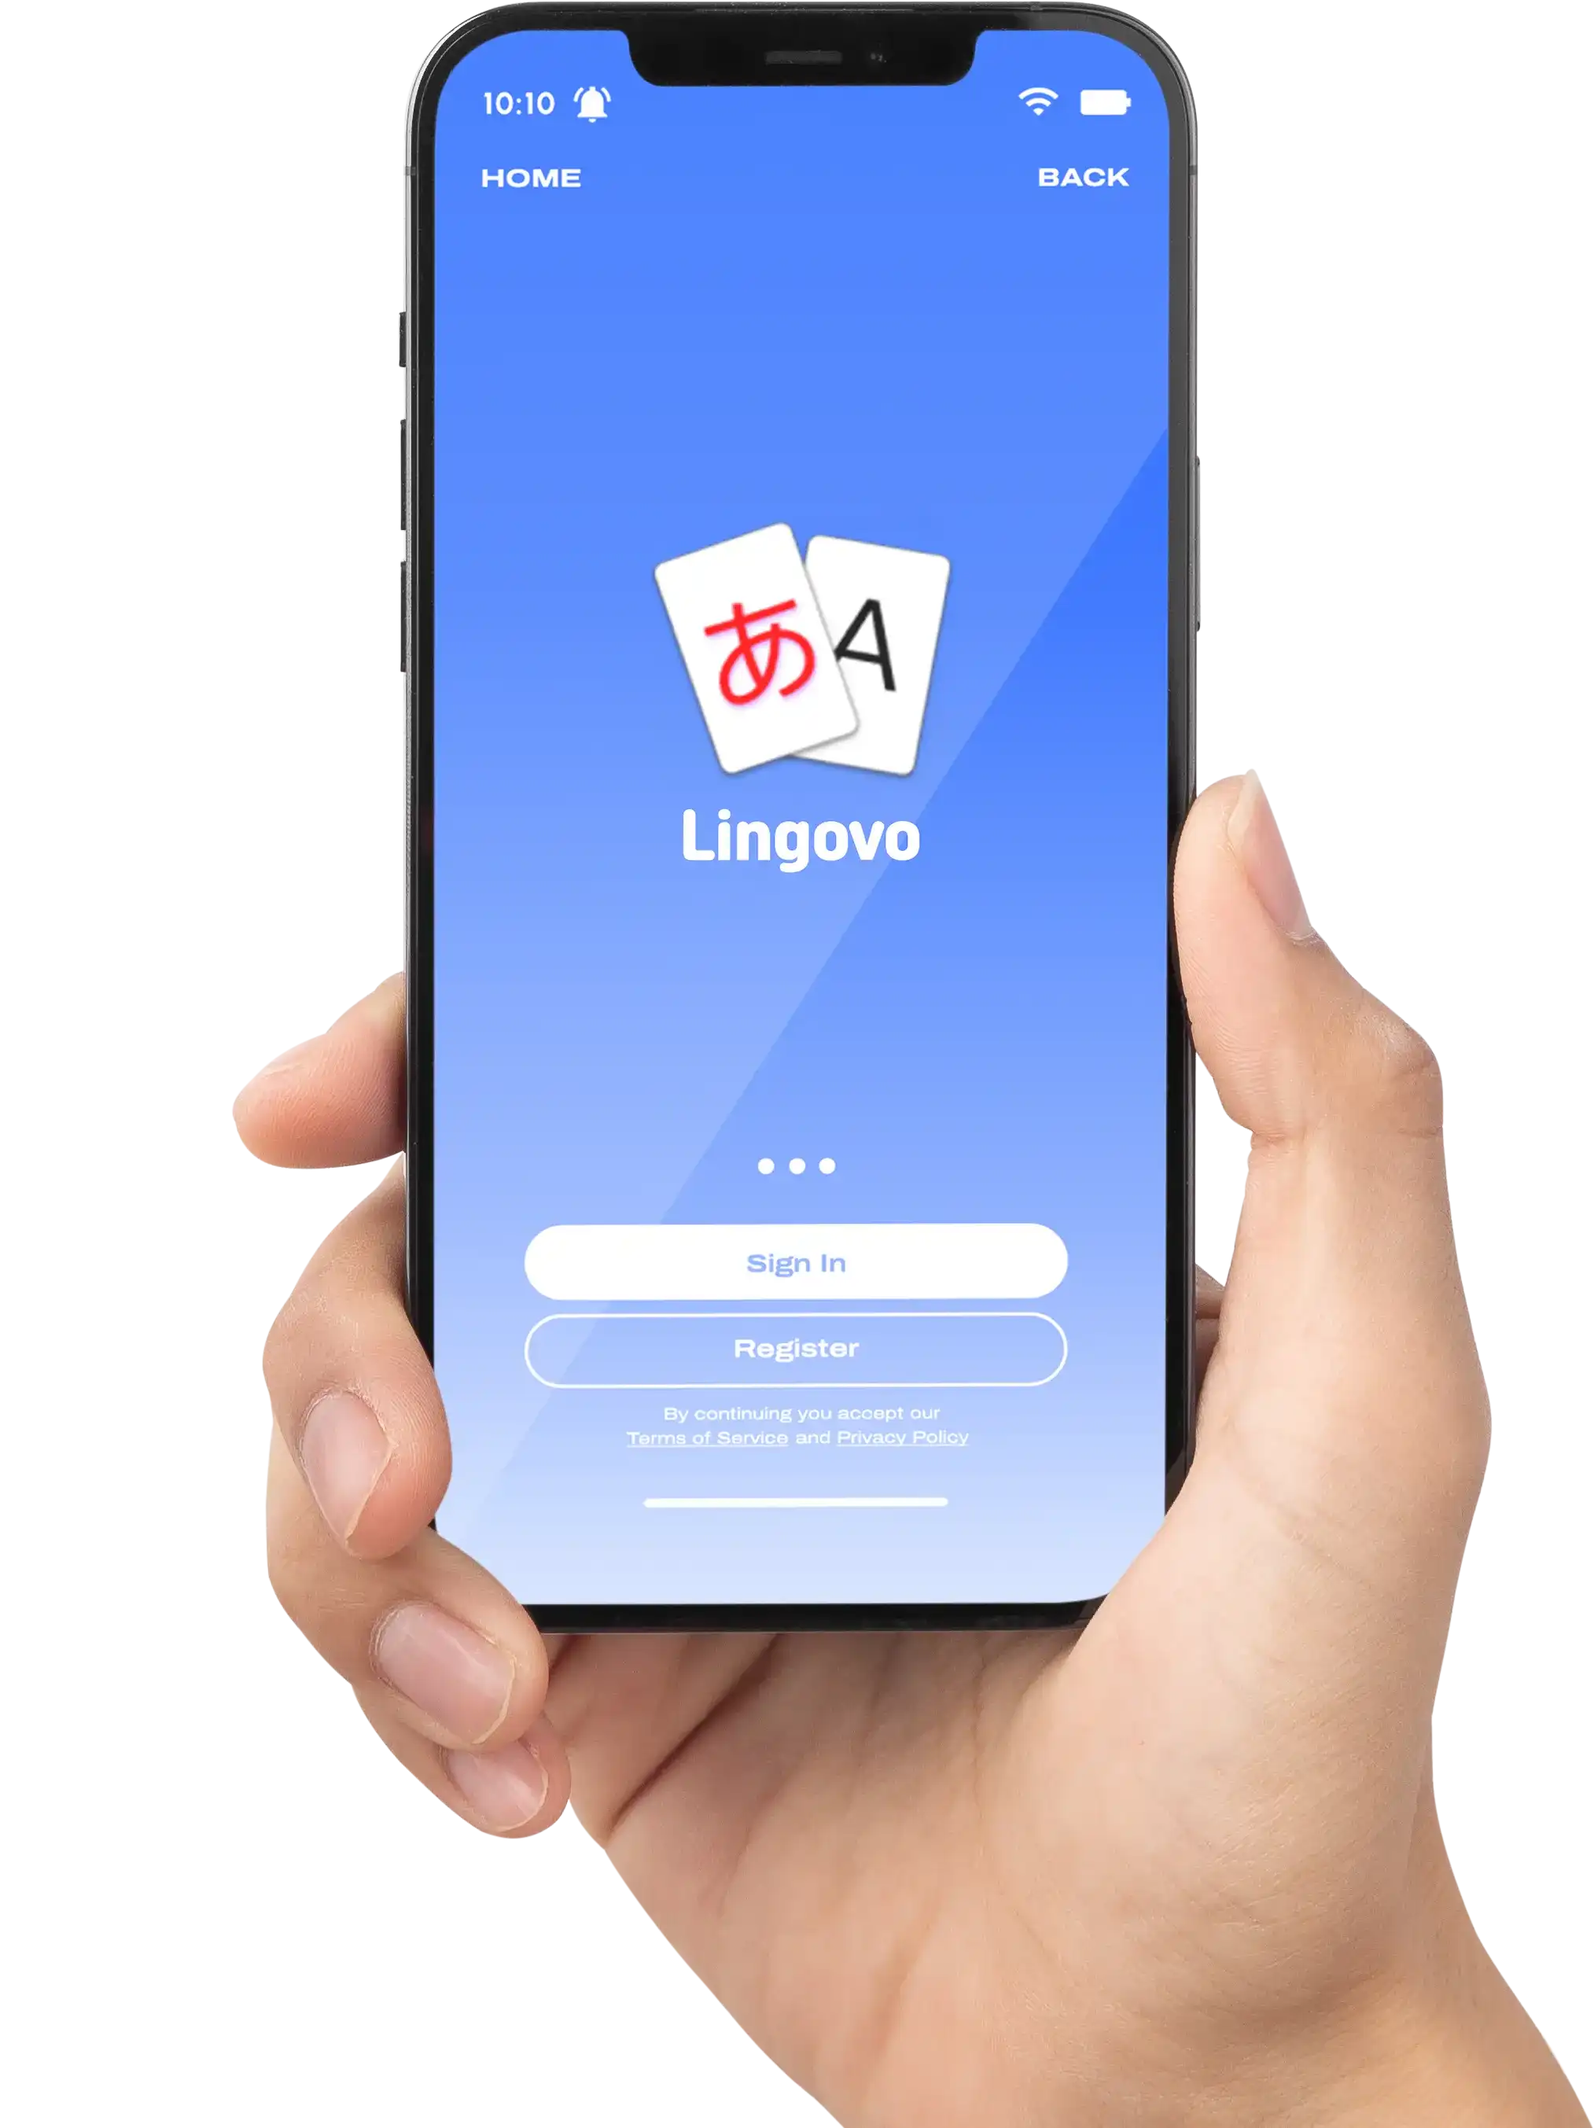
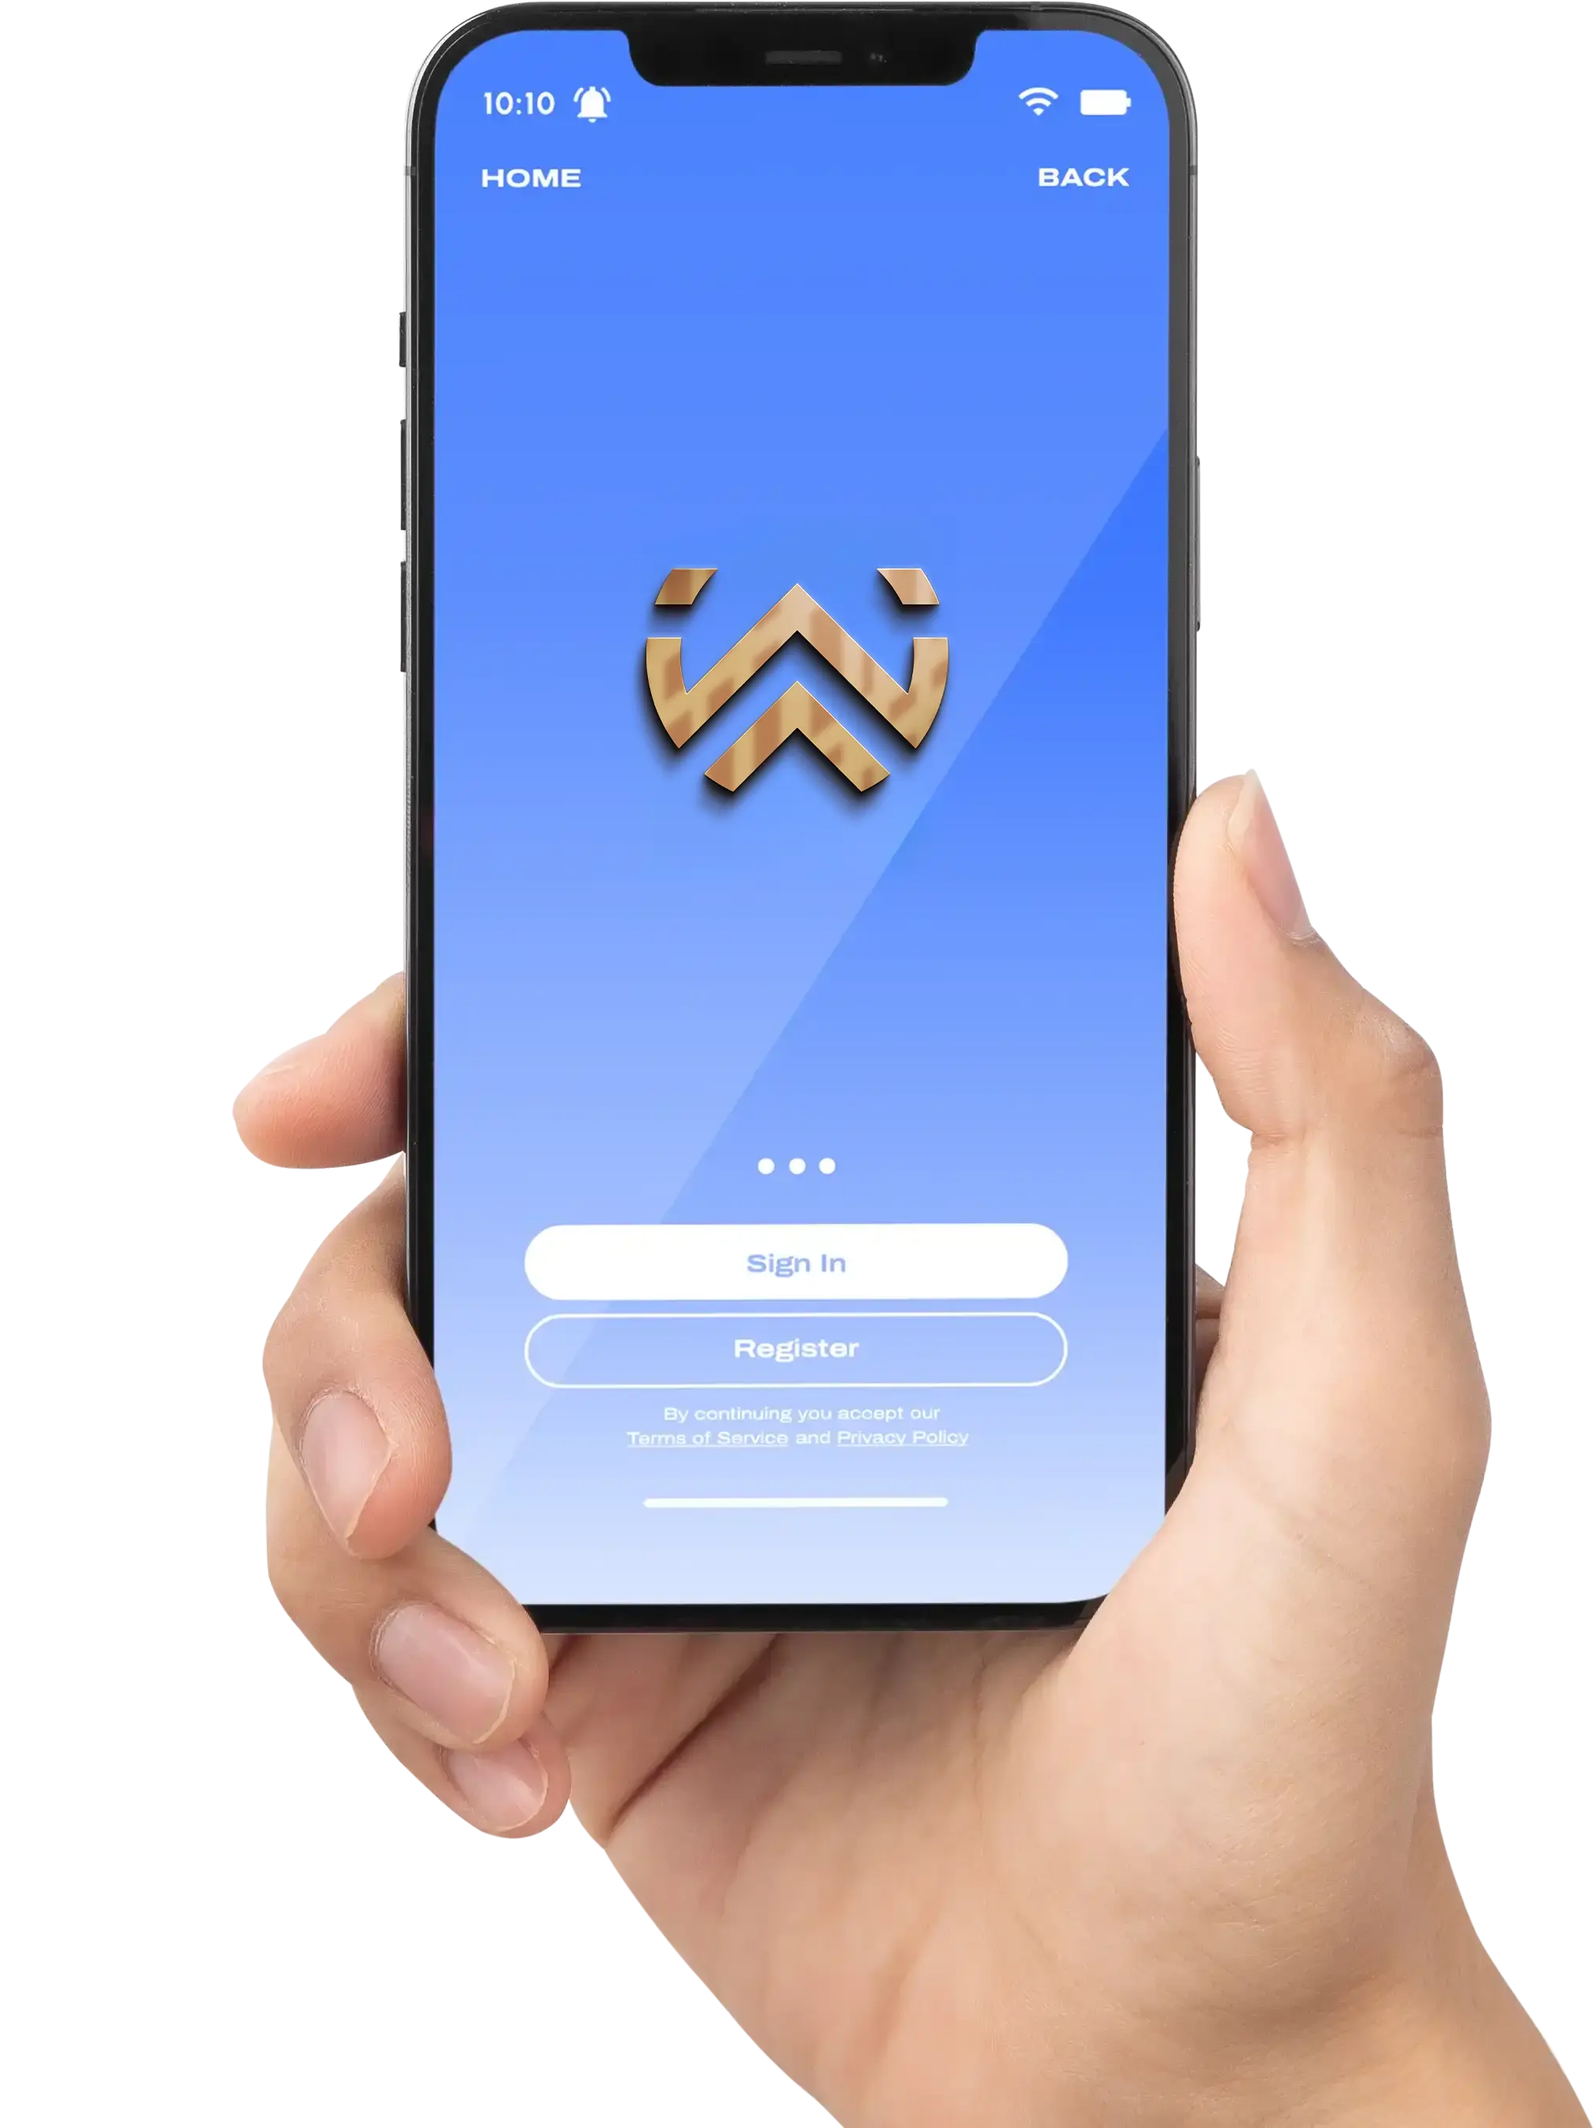
Added a sample product name and replaced asset images for demo

Changed region(s): [[0.373, 0.2483, 0.6216, 0.4035]]

diff --git a/components/testimonial-section.tsx b/components/testimonial-section.tsx
@@ -13,13 +13,13 @@ const testimonials: Testimonial[] = [
     name: 'Jonathan Yombo',
     role: 'Software Engineer',
     image: 'https://randomuser.me/api/portraits/men/1.jpg',
-    quote: 'product-name is really extraordinary and very practical, no need to break your head. A real gold mine.',
+    quote: 'Worldpro is really extraordinary and very practical, no need to break your head. A real gold mine.',
   },
   {
     name: 'Yves Kalume',
     role: 'GDE - Android',
     image: 'https://randomuser.me/api/portraits/men/6.jpg',
-    quote: 'With no experience in webdesign I just redesigned my entire website in a few minutes with tailwindcss thanks to product-name.',
+    quote: 'With no experience in webdesign I just redesigned my entire website in a few minutes with tailwindcss thanks to Worldpro.',
   },
   {
     name: 'Yucel Faruksahan',
@@ -31,19 +31,19 @@ const testimonials: Testimonial[] = [
     name: 'Anonymous author',
     role: 'Doing something',
     image: 'https://randomuser.me/api/portraits/men/8.jpg',
-    quote: 'I am really new to Tailwind and I want to give a go to make some page on my own. I searched a lot of hero pages and blocks online. However, most of them are not giving me a clear view or needed some HTML/CSS coding background to make some changes from the original or too expensive to have. I downloaded the one of product-name template which is very clear to understand at the start and you could modify the codes/blocks to fit perfectly on your purpose of the page.',
+    quote: 'I am really new to Tailwind and I want to give a go to make some page on my own. I searched a lot of hero pages and blocks online. However, most of them are not giving me a clear view or needed some HTML/CSS coding background to make some changes from the original or too expensive to have. I downloaded the one of Worldpro template which is very clear to understand at the start and you could modify the codes/blocks to fit perfectly on your purpose of the page.',
   },
   {
     name: 'Shekinah Tshiokufila',
     role: 'Senior Software Engineer',
     image: 'https://randomuser.me/api/portraits/men/4.jpg',
-    quote: 'product-name is redefining the standard of web design, with these blocks it provides an easy and efficient way for those who love beauty but may lack the time to implement it. I can only recommend this incredible wonder.',
+    quote: 'Worldpro is redefining the standard of web design, with these blocks it provides an easy and efficient way for those who love beauty but may lack the time to implement it. I can only recommend this incredible wonder.',
   },
   {
     name: 'Oketa Fred',
     role: 'Fullstack Developer',
     image: 'https://randomuser.me/api/portraits/men/2.jpg',
-    quote: 'I absolutely love product-name! The component blocks are beautifully designed and easy to use, which makes creating a great-looking website a breeze.',
+    quote: 'I absolutely love Worldpro! The component blocks are beautifully designed and easy to use, which makes creating a great-looking website a breeze.',
   },
   {
     name: 'Zeki',
@@ -55,31 +55,31 @@ const testimonials: Testimonial[] = [
     name: 'Joseph Kitheka',
     role: 'Fullstack Developer',
     image: 'https://randomuser.me/api/portraits/men/9.jpg',
-    quote: 'product-name has transformed the way I develop web applications. Their extensive collection of UI components, blocks, and templates has significantly accelerated my workflow. The flexibility to customize every aspect allows me to create unique user experiences. product-name is a game-changer for modern web development!',
+    quote: 'Worldpro has transformed the way I develop web applications. Their extensive collection of UI components, blocks, and templates has significantly accelerated my workflow. The flexibility to customize every aspect allows me to create unique user experiences. Worldpro is a game-changer for modern web development!',
   },
   {
     name: 'Khatab Wedaa',
     role: 'MerakiUI Creator',
     image: 'https://randomuser.me/api/portraits/men/10.jpg',
-    quote: "product-name is an elegant, clean, and responsive tailwind css components it's very helpful to start fast with your project.",
+    quote: "Worldpro is an elegant, clean, and responsive tailwind css components it's very helpful to start fast with your project.",
   },
   {
     name: 'Rodrigo Aguilar',
     role: 'TailwindAwesome Creator',
     image: 'https://randomuser.me/api/portraits/men/11.jpg',
-    quote: 'I love product-name ❤. The component blocks are well-structured, simple to use, and beautifully designed. It makes it really easy to have a good-looking website in no time.',
+    quote: 'I love Worldpro ❤. The component blocks are well-structured, simple to use, and beautifully designed. It makes it really easy to have a good-looking website in no time.',
   },
   {
     name: 'Eric Ampire',
     role: 'Mobile Engineer at @BRPNews • @GoogleDevExpert for Android',
     image: 'https://randomuser.me/api/portraits/men/12.jpg',
-    quote: 'product-name templates are the perfect solution for anyone who wants to create a beautiful and functional website without any web design experience. The templates are easy to use, customizable, and responsive, and the support team is always available to help. I highly recommend product-name templates to anyone who is looking to create a website.',
+    quote: 'Worldpro templates are the perfect solution for anyone who wants to create a beautiful and functional website without any web design experience. The templates are easy to use, customizable, and responsive, and the support team is always available to help. I highly recommend Worldpro templates to anyone who is looking to create a website.',
   },
   {
     name: 'Roland Tubonge',
     role: 'Software Engineer',
     image: 'https://randomuser.me/api/portraits/men/13.jpg',
-    quote: 'product-name is so well designed that even with a very poor knowledge of web design you can do miracles. Let yourself be seduced!',
+    quote: 'Worldpro is so well designed that even with a very poor knowledge of web design you can do miracles. Let yourself be seduced!',
   },
 ]
 
@@ -100,7 +100,7 @@ export function WallOfLoveSection() {
         <div className="mx-auto max-w-6xl px-6">
           <div className="mx-auto max-w-3xl text-center">
             <h2 className="text-balance text-4xl font-semibold lg:text-5xl">Loved by the Community</h2>
-            <p className="text-body mt-6">Don't just take our word for it! Hear from our happy learners about their experiences with product-name and how it's helping them master a new language.</p>
+            <p className="text-body mt-6">Don't just take our word for it! Hear from our happy learners about their experiences with Worldpro and how it's helping them master a new language.</p>
           </div>
           <div className="mt-8 grid gap-3 md:mt-12 lg:grid-cols-3">
             {testimonialChunks.map((chunk, chunkIndex) => (

diff --git a/components/faqs-section.tsx b/components/faqs-section.tsx
@@ -13,24 +13,24 @@ export function FAQSection() {
 
           <div className="divide-y divide-dashed sm:mx-auto sm:max-w-lg lg:mx-0">
             <div className="pb-6">
-              <h3 className="font-medium">What is product-name?</h3>
-              <p className="text-muted-foreground mt-4">product-name is an innovative language learning app that uses unique cultural short stories to teach 14 different languages. It offers interactive lessons, vocabulary building tools, and premium audio to enhance your learning experience.</p>
+              <h3 className="font-medium">What is Worldpro?</h3>
+              <p className="text-muted-foreground mt-4">Worldpro is an innovative language learning app that uses unique cultural short stories to teach 14 different languages. It offers interactive lessons, vocabulary building tools, and premium audio to enhance your learning experience.</p>
             </div>
             <div className="py-6">
               <h3 className="font-medium">Is there a free trial?</h3>
-              <p className="text-muted-foreground mt-4">Yes! product-name offers a 7-day free trial of our premium features. You'll have full access to all 14 languages and 10,000+ lessons during this period.</p>
+              <p className="text-muted-foreground mt-4">Yes! Worldpro offers a 7-day free trial of our premium features. You'll have full access to all 14 languages and 10,000+ lessons during this period.</p>
             </div>
             <div className="py-6">
-              <h3 className="font-medium">Why use product-name over other options?</h3>
-              <p className="text-muted-foreground mt-4">product-name stands out with its focus on cultural immersion through short stories, adaptive learning for all levels, and a comprehensive approach that includes reading, listening, and vocabulary building. Our unique method helps you learn languages in context, making the process more engaging and effective.</p>
+              <h3 className="font-medium">Why use Worldpro over other options?</h3>
+              <p className="text-muted-foreground mt-4">Worldpro stands out with its focus on cultural immersion through short stories, adaptive learning for all levels, and a comprehensive approach that includes reading, listening, and vocabulary building. Our unique method helps you learn languages in context, making the process more engaging and effective.</p>
             </div>
             <div className="py-6">
-              <h3 className="font-medium">Is product-name available on both iOS and Android?</h3>
-              <p className="text-muted-foreground mt-4">Yes, product-name is available for both iOS and Android devices, allowing you to learn on your preferred platform.</p>
+              <h3 className="font-medium">Is Worldpro available on both iOS and Android?</h3>
+              <p className="text-muted-foreground mt-4">Yes, Worldpro is available for both iOS and Android devices, allowing you to learn on your preferred platform.</p>
             </div>
             <div className="py-6">
-              <h3 className="font-medium">How many languages can I learn with product-name?</h3>
-              <p className="text-muted-foreground my-4">product-name offers courses in 14 languages:</p>
+              <h3 className="font-medium">How many languages can I learn with Worldpro?</h3>
+              <p className="text-muted-foreground my-4">Worldpro offers courses in 14 languages:</p>
               <ul className="list-outside list-disc space-y-2 pl-4">
                 <li className="text-muted-foreground">English</li>
                 <li className="text-muted-foreground">Arabic</li>

diff --git a/components/hero-section.tsx b/components/hero-section.tsx
@@ -70,7 +70,7 @@ export function HeroSection() {
                 speedSegment={0.3}
                 as="h1"
                 className="mt-8 text-balance text-6xl md:text-7xl lg:mt-16 xl:text-[5.25rem]">
-                Learn your next Language with product-name
+                Learn your next Language with Worldpro
               </TextEffect>
               <TextEffect
                 per="line"
@@ -79,7 +79,7 @@ export function HeroSection() {
                 delay={0.5}
                 as="p"
                 className="mx-auto mt-8 max-w-2xl text-balance text-lg">
-                Discover a new way to learn 14 languages with product-name's unique cultural short stories and interactive lessons.
+                Worldpro is a sample name for a website demo, and it is not related to any real company.
               </TextEffect>
 
               <AnimatedGroup

diff --git a/components/logo.tsx b/components/logo.tsx
@@ -4,8 +4,8 @@ import Image from 'next/image'
 export const Logo = ({ className }: { className?: string }) => {
   return (
     <div className='flex gap-x-2 items-center'>
-      <Image src="/logo.webp" alt="product-name Logo" width={150} height={50} className={cn('size-7 w-7', className)} />
-      <span className='text-balance text-xl font-medium'>Linvago</span>
+      <Image src="/logo.webp" alt="Worldpro Logo" width={150} height={50} className={cn('size-7 w-7', className)} />
+      <span className='text-balance text-xl font-medium'>Worldpro</span>
     </div>
   )
 }

diff --git a/components/pricing-section.tsx b/components/pricing-section.tsx
@@ -34,7 +34,7 @@ export function PricingSection() {
             Pricing that Scales with You
           </h1>
           <p>
-            Select the plan that fits your needs and start your language learning journey with product-name. Flexible options designed to give you the best value and results.
+            Select the plan that fits your needs and start your language learning journey with Worldpro. Flexible options designed to give you the best value and results.
           </p>
         </div>
 

diff --git a/components/content-section.tsx b/components/content-section.tsx
@@ -7,7 +7,7 @@ export function ContentSection() {
     <section id="solution" className="py-16 md:py-32">
       <div className="mx-auto max-w-5xl space-y-8 px-6 md:space-y-16">
         <h2 className="relative z-10 max-w-xl text-balance text-4xl font-semibold lg:text-5xl">
-          The product-name Method
+          The Worldpro Method
         </h2>
         <div className="grid gap-6 sm:grid-cols-2 md:gap-12 lg:gap-24">
           <div className="relative space-y-4">

diff --git a/components/cta-section.tsx b/components/cta-section.tsx
@@ -7,7 +7,7 @@ export function CallToActionSection() {
       <div className="mx-auto max-w-2xl px-6">
         <div className="text-center">
           <h2 className="text-balance text-4xl font-semibold lg:text-5xl">
-            Stay product-name-ed
+            Stay Worldpro-ed
           </h2>
           <p className="mt-4">
             Join our mailing list for the latest updates, tips, and exclusive offers. Be the first to know about new features and promotions!
